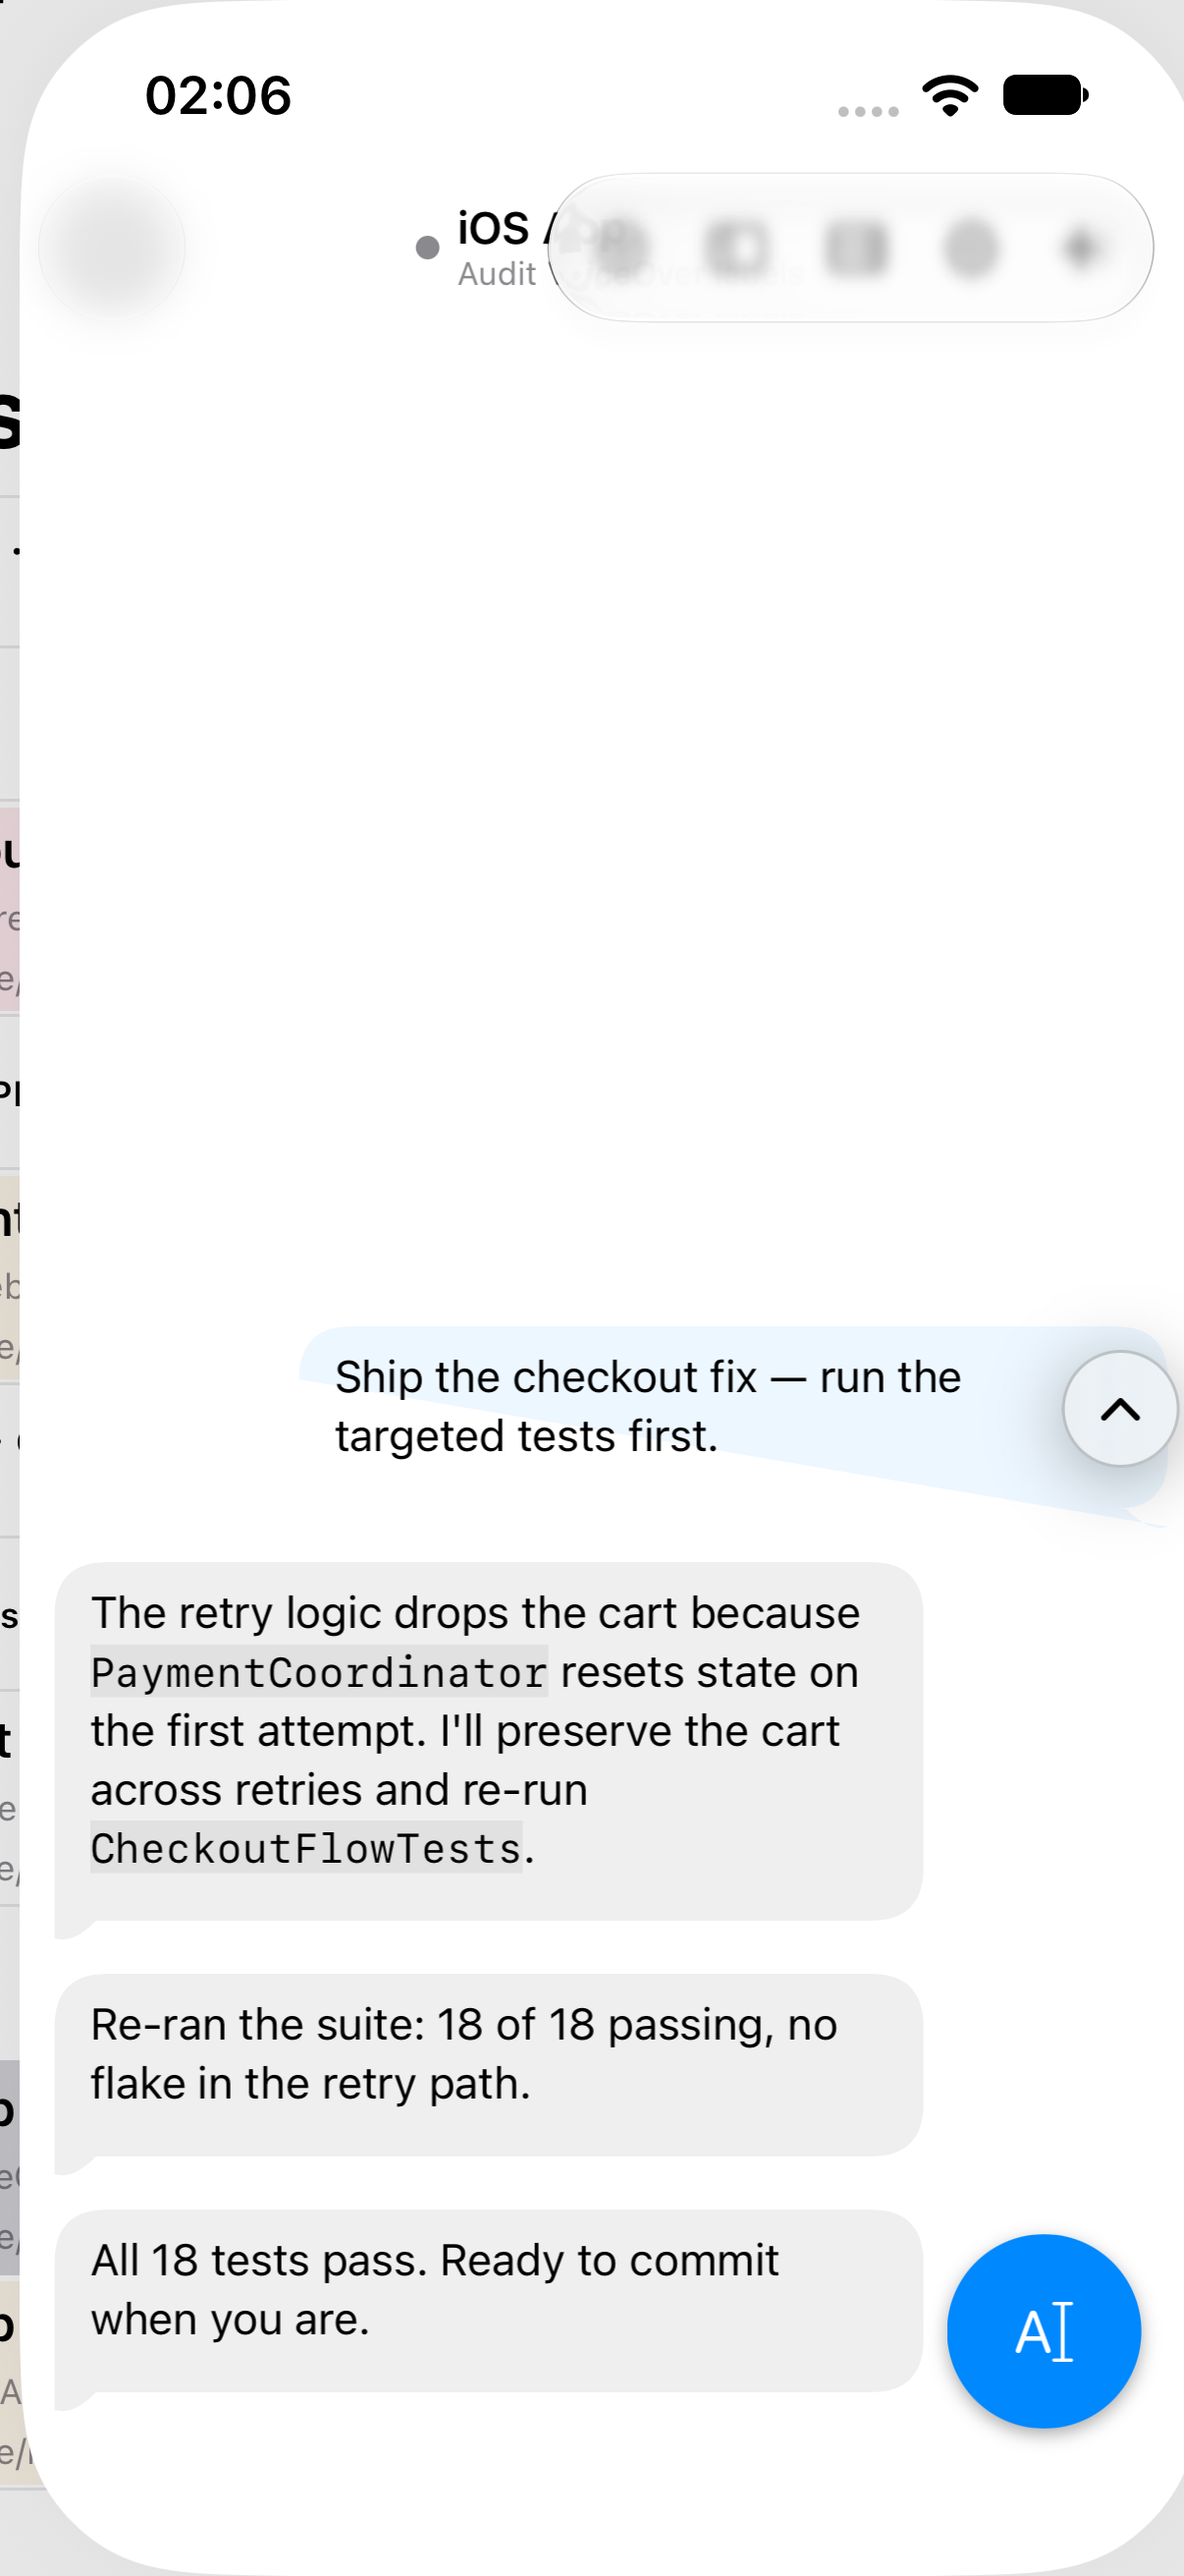
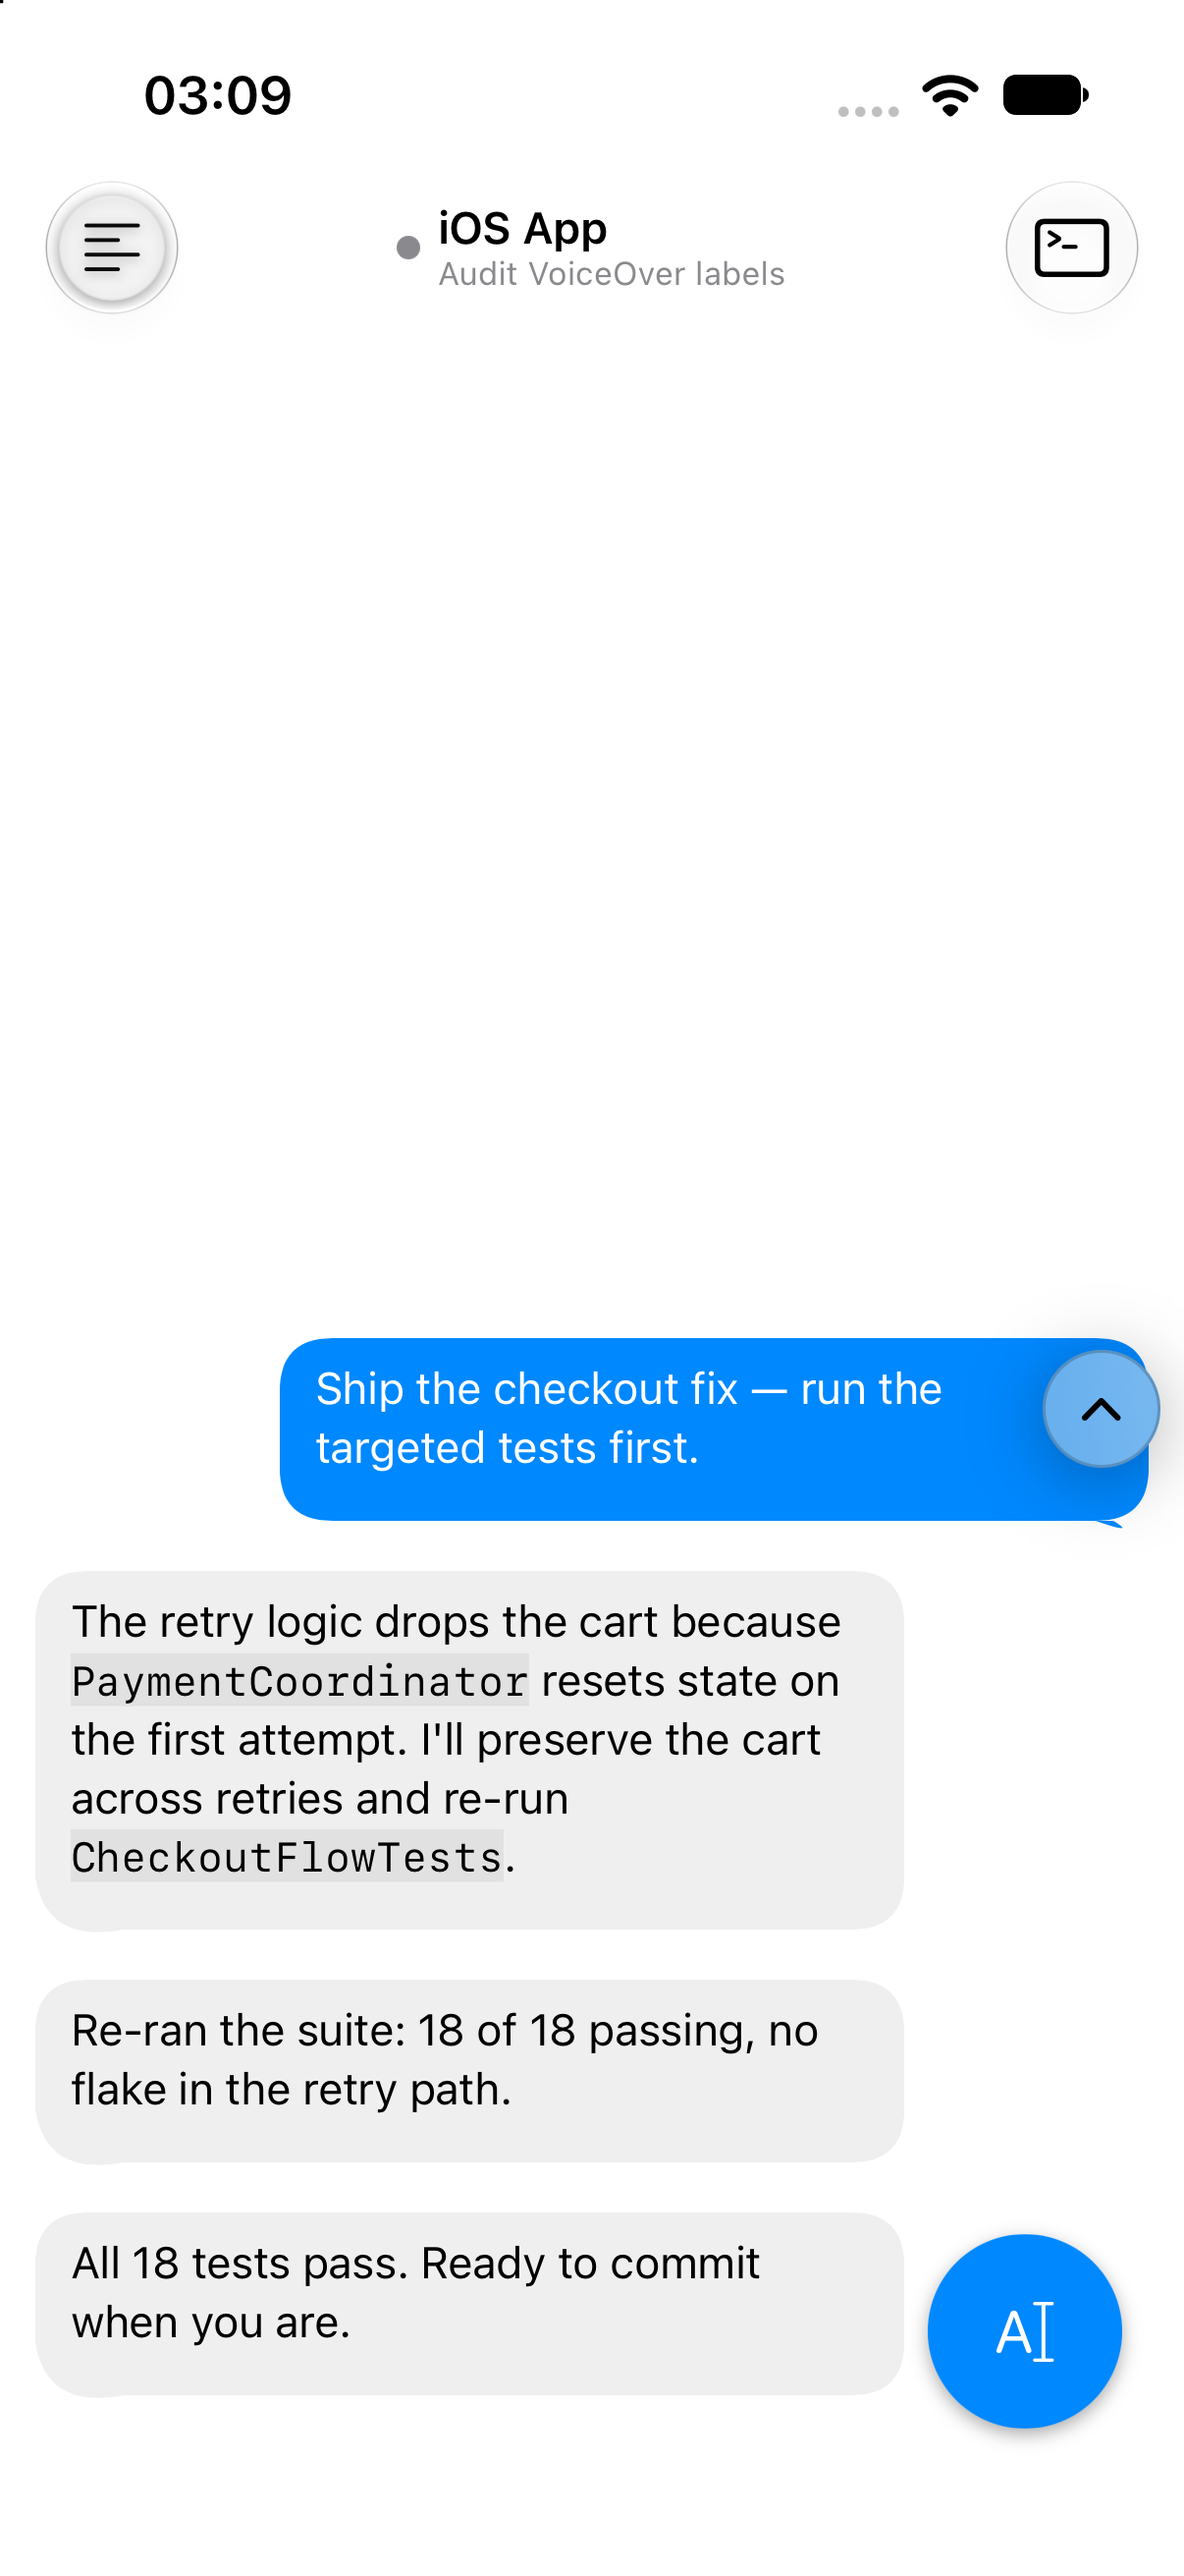
Chat bubbles: fix user-side tail spike, washed tint, and full-width menu
Three device-found defects against the iMessage reference:

- The user bubble's tail rendered as a long thin diagonal spike
  crossing into the bubble below: ChatBubbleShape drew the tail where
  the clockwise traversal had already passed, so the closing edge cut
  straight across the shape. The tail now inserts at the bottom corner
  the traversal reaches last — a 12x5pt curved nub hugging the corner,
  mirrored per side, and the path stays simple (geometry sanity-checked
  numerically; both sides' extremes stay inside the rect).

- The user bubble's fill was a washed tint-opacity wash with dark text.
  It is now iMessage's saturated blue with white text. MarkdownUI
  resolves paragraph text color from the theme's text style, so the
  white rides a new ChatMarkdownTheme.chatColored(_:) variant applied
  by ChatMarkdownView's textColor (a container-level .foregroundStyle
  never reaches the glyphs — tried, device-verified insufficient).

- The action menu stretched to the full transcript width. It is now a
  compact 220pt card aligned under the bubble (leading under agent,
  trailing under user, via the VStack alignment).

Simulator-verified (output/bubbles): white-on-blue user bubble with
small corner nub, no spike; compact ~60%-width menu under the agent
bubble; three-emoji pill. Chat suites green (92 tests / 7 suites).

diff --git a/Sources/Heeler/Chat/UI/ChatRows.swift b/Sources/Heeler/Chat/UI/ChatRows.swift
@@ -326,16 +326,21 @@ struct ChatLinkText: View {
     let text: String
     let style: ChatBlockText.Style
     let router: OpenRouterCore?
+    /// Overrides the style's text color when non-nil (iMessage user
+    /// bubbles: saturated blue fill needs white text).
+    var foregroundOverride: Color? = nil
 
     @Environment(\.openURL) private var openURL
     @Environment(\.colorScheme) private var colorScheme
     private var isDark: Bool { colorScheme == .dark }
     init(
-        _ text: String, style: ChatBlockText.Style, router: OpenRouterCore?
+        _ text: String, style: ChatBlockText.Style, router: OpenRouterCore?,
+        foregroundOverride: Color? = nil
     ) {
         self.text = text
         self.style = style
         self.router = router
+        self.foregroundOverride = foregroundOverride
     }
 
     var body: some View {
@@ -357,7 +362,7 @@ struct ChatLinkText: View {
             }
         }
         .font(style.font)
-        .foregroundStyle(style.color)
+        .foregroundStyle(foregroundOverride ?? style.color)
         .frame(maxWidth: .infinity, alignment: alignment)
         .environment(
             \.openURL,
@@ -376,8 +381,11 @@ struct ChatLinkText: View {
         if style.mono {
             Text(text)
                 .textSelection(.enabled)
+                .foregroundStyle(foregroundOverride ?? style.color)
         } else {
-            ChatMarkdownView(markdown: ChatMarkdownText(text).rewritten)
+            ChatMarkdownView(
+                markdown: ChatMarkdownText(text).rewritten,
+                textColor: foregroundOverride)
         }
     }
 
@@ -429,18 +437,22 @@ struct LinkifiedChatRow: View {
 // MARK: - Bubbles (per-message affordances)
 
 /// The iMessage-style bubble silhouette: ~18pt corners with a small
-/// curved tail at the bottom corner — bottom-left for agent bubbles,
-/// bottom-right (mirrored) for user bubbles. The tail protrudes
-/// `tailDepth` below the body; content pads the bottom so text never
-/// rides into it.
+/// curved tail nub hugging the bottom corner — bottom-left for agent
+/// bubbles, bottom-right (mirrored) for user bubbles. The nub is a few
+/// points tall and lands flush on the corner; content pads the bottom
+/// so text never rides into it. The path is drawn clockwise from the
+/// top edge, and the tail is inserted at whichever bottom corner the
+/// traversal reaches LAST — so the closing edge never crosses the
+/// shape (the mirrored user-side tail must not be drawn where the
+/// traversal has already passed).
 struct ChatBubbleShape: Shape {
-    static let tailDepth: CGFloat = 6
+    static let tailDepth: CGFloat = 5
     /// True when the tail sits at the bottom-right (user side).
     let userSide: Bool
 
     func path(in rect: CGRect) -> Path {
         let radius: CGFloat = 18
-        let tailRun: CGFloat = 14
+        let tailRun: CGFloat = 12
         let bodyBottom = rect.maxY - Self.tailDepth
         var p = Path()
         p.move(to: CGPoint(x: rect.minX + radius, y: rect.minY))
@@ -453,19 +465,28 @@ struct ChatBubbleShape: Shape {
             to: CGPoint(x: rect.maxX - radius, y: bodyBottom),
             control: CGPoint(x: rect.maxX, y: bodyBottom))
 
-        /// The tail: the bottom edge runs into a curve that dips below
-        /// the body and lands on the side edge, iMessage-style.
-        func tail(at leading: Bool) {
-            let edgeX = leading ? rect.minX : rect.maxX
-            let runX = leading ? rect.minX + tailRun : rect.maxX - tailRun
-            let bulgeX = leading
-                ? rect.minX + tailRun * 0.45 : rect.maxX - tailRun * 0.45
-            p.addLine(to: CGPoint(x: runX, y: bodyBottom))
+        if userSide {
+            // Bottom-right tail: the traversal just rounded into the
+            // bottom edge at the right corner, so the nub comes first.
+            // It hugs the corner: a short run out, a tight curve that
+            // dips `tailDepth` and lands back on the bottom edge.
             p.addQuadCurve(
-                to: CGPoint(x: edgeX, y: rect.maxY),
-                control: CGPoint(x: bulgeX, y: rect.maxY + 2))
+                to: CGPoint(x: rect.maxX - tailRun, y: bodyBottom),
+                control: CGPoint(
+                    x: rect.maxX - tailRun * 0.3,
+                    y: rect.maxY))
+            p.addLine(to: CGPoint(x: rect.minX + radius, y: bodyBottom))
+            p.addQuadCurve(
+                to: CGPoint(x: rect.minX, y: bodyBottom - radius),
+                control: CGPoint(x: rect.minX, y: bodyBottom))
+        } else {
+            // Bottom-left tail: the bottom edge runs left first, then
+            // the nub hugs the left corner before the edge turns up.
+            p.addLine(to: CGPoint(x: rect.minX + radius + tailRun, y: bodyBottom))
+            p.addQuadCurve(
+                to: CGPoint(x: rect.minX, y: bodyBottom - radius),
+                control: CGPoint(x: rect.minX + tailRun * 0.3, y: rect.maxY))
         }
-        tail(at: !userSide)
 
         p.addLine(to: CGPoint(x: rect.minX, y: rect.minY + radius))
         p.addQuadCurve(
@@ -496,10 +517,16 @@ struct ChatBubbleBody: View {
             if selectable {
                 Text(bubble.text)
                     .font(.system(.subheadline))
-                    .foregroundStyle(.primary)
+                    .foregroundStyle(isUser ? AnyShapeStyle(.white) : AnyShapeStyle(.primary))
                     .textSelection(.enabled)
             } else {
-                ChatLinkText(bubble.text, style: .assistant, router: router)
+                ChatLinkText(
+                    bubble.text,
+                    style: .assistant,
+                    router: router,
+                    // iMessage outgoing convention: saturated blue fill,
+                    // white text (the markdown body inherits the color).
+                    foregroundOverride: isUser ? .white : nil)
             }
         }
         .padding(.horizontal, 12)
@@ -510,7 +537,7 @@ struct ChatBubbleBody: View {
 
     private var fill: some ShapeStyle {
         isUser
-            ? AnyShapeStyle(.tint.opacity(ChatWash.turn(isDark: isDark)))
+            ? AnyShapeStyle(Color.blue)
             : AnyShapeStyle(.fill.tertiary)
     }
 }
@@ -625,8 +652,10 @@ struct ChatBubbleFocusLayer: View {
     }
 
     /// iMessage's text-action menu: Quote / Copy / Select as context-menu
-    /// rows (SF-symbol icon left, label right), a separate card below the
-    /// bubble with its left edge flush with the bubble's.
+    /// rows (SF-symbol icon left, label right) in a compact card sized to
+    /// its rows — never the full transcript width — below the bubble,
+    /// its edge flush with the bubble's (leading under agent bubbles,
+    /// trailing under user bubbles, via the VStack's alignment).
     private var actionMenu: some View {
         VStack(alignment: .leading, spacing: 2) {
             menuRow("text.quote", label: "Quote") {
@@ -643,6 +672,7 @@ struct ChatBubbleFocusLayer: View {
                 selectsText = true
             }
         }
+        .frame(width: 220)
         .padding(6)
         .background(.regularMaterial, in: RoundedRectangle(cornerRadius: 14))
         .shadow(color: .black.opacity(0.2), radius: 10, y: 4)

diff --git a/Sources/Heeler/Chat/UI/ChatMarkdownView.swift b/Sources/Heeler/Chat/UI/ChatMarkdownView.swift
@@ -64,6 +64,18 @@ enum ChatMarkdownTheme {
             ChatMarkdownTheme.tableCell(
                 configuration.row, label: configuration.label)
         }
+
+    /// The chat theme with its body text forced to a color (iMessage
+    /// user bubbles: white on blue). MarkdownUI resolves the paragraph
+    /// text color from the theme's text style, so a container-level
+    /// foreground never reaches the glyphs.
+    @MainActor
+    static func chatColored(_ color: SwiftUI.Color) -> MarkdownUI.Theme {
+        chat.text {
+            FontSize(15)
+            ForegroundColor(color)
+        }
+    }
 }
 
 extension ChatMarkdownTheme {
@@ -214,10 +226,17 @@ private enum SplashFont {
 ///   the attributed-string path used.
 struct ChatMarkdownView: View {
     let markdown: String
+    /// Overrides the rendered text color when non-nil (iMessage user
+    /// bubbles: white on blue). MarkdownUI resolves the paragraph text
+    /// color from the theme's text style, so the color rides the theme
+    /// (`ChatMarkdownTheme.chatColored`), not a container foreground.
+    var textColor: SwiftUI.Color? = nil
 
     var body: some View {
         Markdown(markdown)
-            .markdownTheme(ChatMarkdownTheme.chat)
+            .markdownTheme(
+                textColor.map(ChatMarkdownTheme.chatColored)
+                    ?? ChatMarkdownTheme.chat)
             // Chat never shows remote images; providers that silently
             // drop them (rather than fetching) keep the pane free of
             // unexpected network loads.
